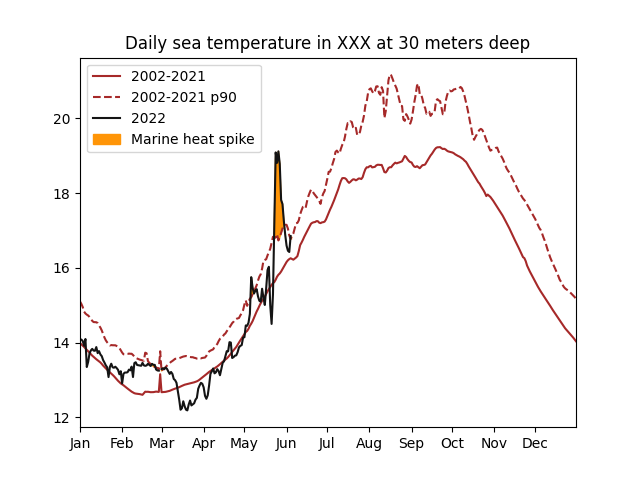
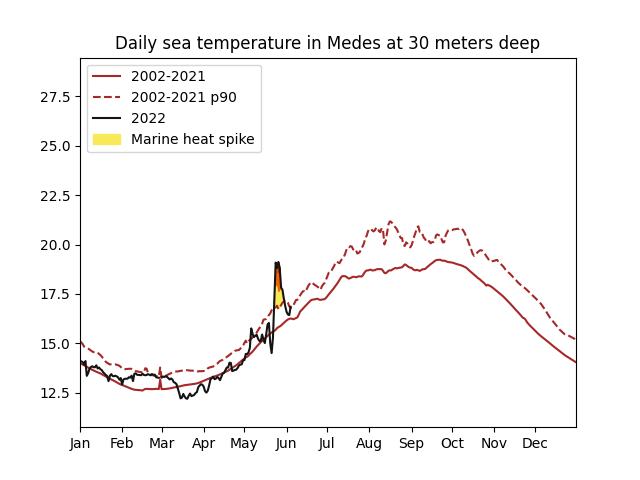
Added cold spikes (though they got commented out) and added the categories for the spikes as well. Should focus on creating the anomalies now.

diff --git a/tmednetGUI/surface_temperature.py b/tmednetGUI/surface_temperature.py
@@ -20,8 +20,9 @@ def marine_heat_spikes_setter(data):
     last_year = str(data['year'].max())
     last_years_legend = first_year + '-' + second2last_year
     percentile_legend = first_year + '-' + second2last_year + ' p90'
+    low_percentile_legend = first_year + '-' + second2last_year + ' p10'
     this_year_legend = last_year
-    return data, last_years_legend, percentile_legend, this_year_legend
+    return data, last_years_legend, percentile_legend, this_year_legend, low_percentile_legend
 
 def marine_heat_spikes_filter(data, depth):
     # Filter the data for 15 days
@@ -43,7 +44,7 @@ def marine_heat_spikes_df_setter(data, depth, legend, percentile=False, years='o
         df = data.loc[locator].groupby(['day', 'month'], as_index=False).mean().rename(
             columns={depth: legend}).drop('year', axis=1)
     else:
-        df = data.loc[locator].groupby(['day', 'month'], as_index=False).quantile(.9).rename(
+        df = data.loc[locator].groupby(['day', 'month'], as_index=False).quantile(percentile).rename(
             columns={depth: legend}).drop(['year', 'Date'], axis=1)
     df.sort_values(['month', 'day'], inplace=True)
     df['date'] = pd.to_datetime(
@@ -53,24 +54,42 @@ def marine_heat_spikes_df_setter(data, depth, legend, percentile=False, years='o
 
     return df
 def marine_heat_spikes_plotter(data, depth, sitename):
-    data, last_years_legend, percentile_legend, this_year_legend = marine_heat_spikes_setter(data)
+    data, last_years_legend, percentile_legend, this_year_legend, low_percentile_legend = marine_heat_spikes_setter(data)
     last_years_filtered = marine_heat_spikes_filter(data, depth)
     last_years_means = marine_heat_spikes_df_setter(last_years_filtered, depth, last_years_legend)
-    last_years_percentile = marine_heat_spikes_df_setter(last_years_filtered, depth, percentile_legend, percentile=True)
+    last_years_percentile = marine_heat_spikes_df_setter(last_years_filtered, depth, percentile_legend, percentile=.9)
     this_year_mean = marine_heat_spikes_df_setter(data, depth, this_year_legend, years='new')
-
+    low_percentile = marine_heat_spikes_df_setter(last_years_filtered, depth, low_percentile_legend, percentile=.1)
     # Sets a unique Dataframe consisting of the other three
-    concated = pd.concat([last_years_means, last_years_percentile, this_year_mean], axis=1)
+    concated = pd.concat([last_years_means, last_years_percentile, low_percentile, this_year_mean], axis=1)
     prop = concated.index.strftime('%b')
     concated.index = concated.index.strftime('%m-%d')
 
+    # Now it's time to set the categories of the spikes, which are multiples of the difference between the climatology
+    # and the p90
+
+    difference = concated[percentile_legend] - concated[last_years_legend]
+    concated['x2'] = difference*2 + concated[last_years_legend]
+    concated['x3'] = difference * 3 + concated[last_years_legend]
+    concated['x4'] = difference * 4 + concated[last_years_legend]
     # Starts the axes and plots the data
     ax = plt.axes()
-    cycler = plt.cycler(linestyle=['-', '--', '-'], color=['#a62929', '#a62929', '#141414'], )
+    # TODO set categories for spikes by making new transparent lines
+    cycler = plt.cycler(linestyle=['-', '--', '--', '-', '-', '-', '-'], color=['#a62929', '#a62929', 'blue', '#141414', 'blue', 'blue', 'blue'], alpha=[1.,1.,0.,1., 0., 0., 0.])
     ax.set_prop_cycle(cycler)
     concated.plot(ax=ax)
+
+    # #ff9507 color of the fill_between classic
     plt.fill_between(concated.index, concated[percentile_legend], concated[this_year_legend],
-                     where=(concated[this_year_legend] > concated[percentile_legend]), color='#ff9507')
+                     where=(concated[this_year_legend] > concated[percentile_legend]), color='#f8e959')
+    plt.fill_between(concated.index, concated['x2'], concated[this_year_legend],
+                     where=(concated[this_year_legend] > concated['x2']), color='#f66000')
+    plt.fill_between(concated.index, concated['x3'], concated[this_year_legend],
+                     where=(concated[this_year_legend] > concated['x3']), color='#ce2200')
+    plt.fill_between(concated.index, concated['x4'], concated[this_year_legend],
+                     where=(concated[this_year_legend] > concated['x4']), color='#810000')
+    #plt.fill_between(concated.index, concated[low_percentile_legend], concated[this_year_legend],
+    #                 where=(concated[this_year_legend] < concated[low_percentile_legend]), color='#c7ecf2')
     plt.xlabel('')
     plt.xticks(
         ['01-01', '02-01', '03-01', '04-01', '05-01', '06-01', '07-01', '08-01', '09-01', '10-01', '11-01', '12-01'])
@@ -78,9 +97,10 @@ def marine_heat_spikes_plotter(data, depth, sitename):
     ax.set_xticklabels(prop.unique())
 
     # Sets the legend in order to include the fill_between value
-    fill_patch = mpatches.Patch(color='#ff9507', label='Marine heat spike')
+    fill_patch = mpatches.Patch(color='#f8e959', label='Marine heat spike')
+    low_patch = mpatches.Patch(color='#c7ecf2', label='Marine low spike')
     handles, labels = plt.gca().get_legend_handles_labels()
-    plt.legend(handles=handles + [fill_patch])
+    plt.legend(handles=handles[:2] + [handles[3]] + [fill_patch])
     plt.title('Daily sea temperature in ' + sitename +' at ' + depth + ' meters deep')
     plt.savefig('../src/output_images/spike_' + sitename +' ' + depth + '.png')
     ax.remove()
